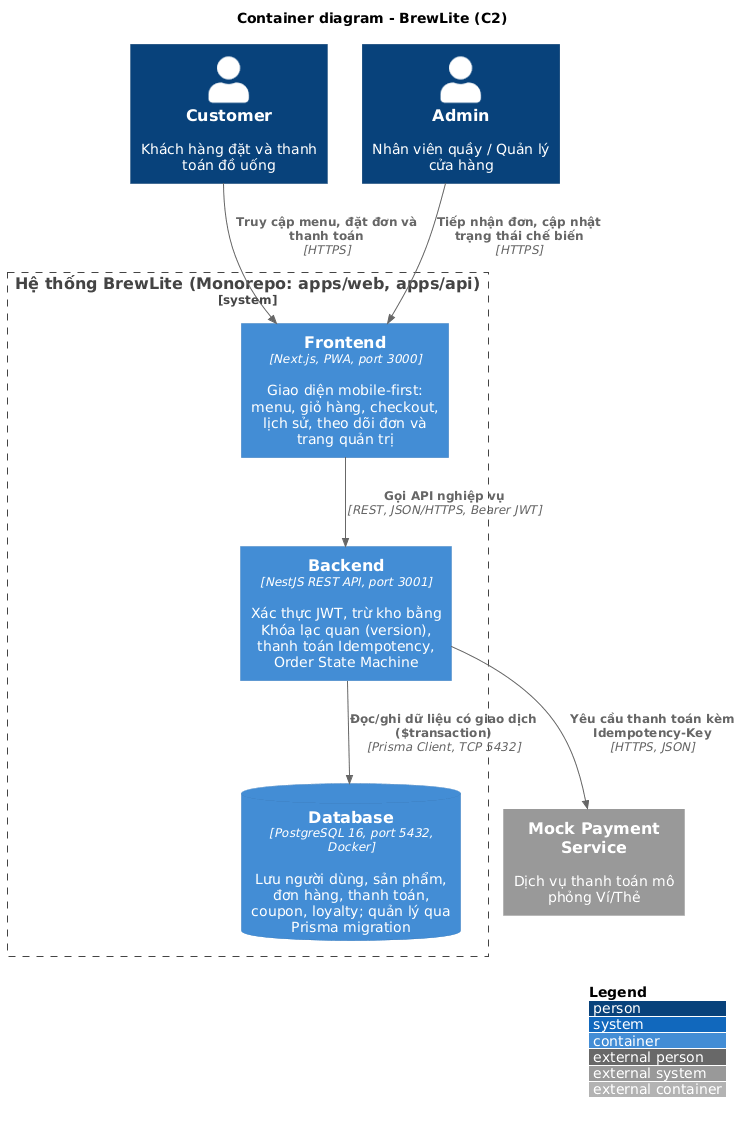
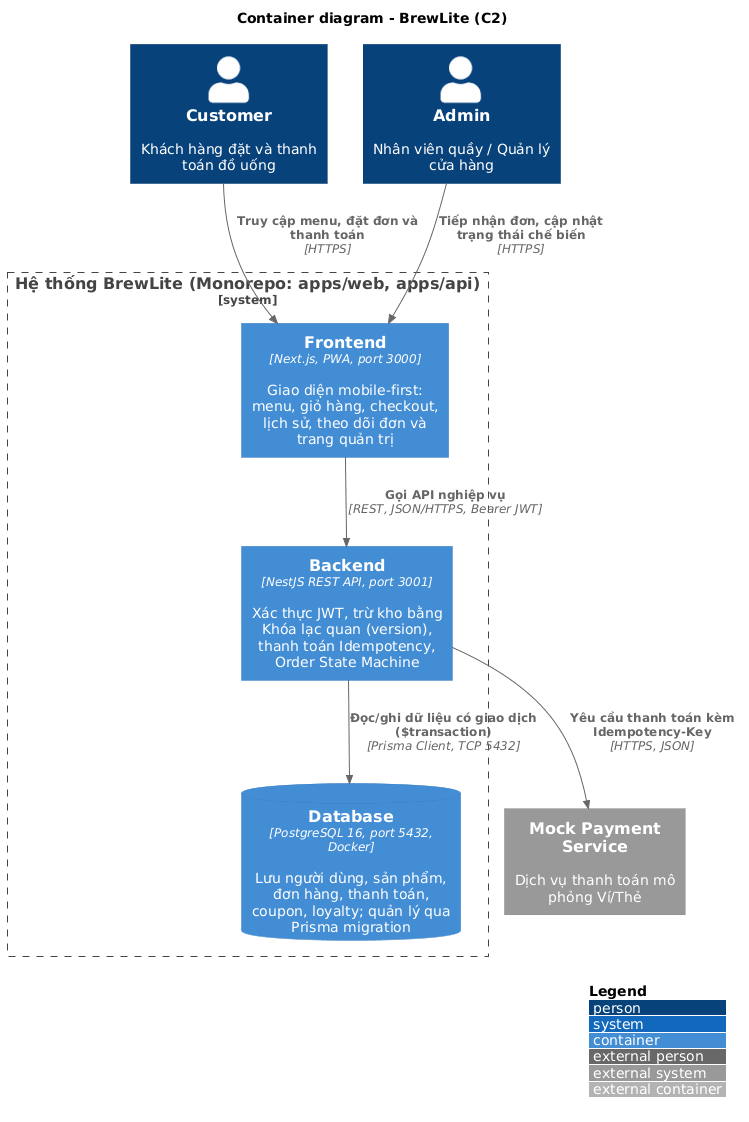
docs(architecture): relocate c4-model.md to architecture root and update C4 PNG diagrams

diff --git a/docs/architecture/c4-model.md b/docs/architecture/c4-model.md
@@ -41,9 +41,9 @@ Mở hộp BrewLite System thành các container chạy và triển khai đượ
 
 | Container | Công nghệ | Mã nguồn | Cổng | Vai trò |
 |---|---|---|---|---|
-| **Frontend** | Next.js (mobile-first, PWA) | `apps/web` | 3000 | Hiển thị giao diện menu, giỏ hàng, checkout, lịch sử và theo dõi đơn, màn hình Admin. Gọi Backend qua REST, không truy cập trực tiếp cơ sở dữ liệu. |
-| **Backend** | NestJS REST API | `apps/api` | 3001 | Xác thực và phân quyền JWT, validate dữ liệu, xử lý nghiệp vụ (tạo đơn, trừ tồn kho bằng Khóa lạc quan qua trường version, thanh toán có Idempotency, Order State Machine), health check `GET /health`. Là thành phần duy nhất truy cập cơ sở dữ liệu. |
-| **Database** | PostgreSQL 16 (Docker) | Migration và seed trong `apps/api` | 5432 | Lưu người dùng, sản phẩm, kích cỡ/topping, đơn hàng, thanh toán, mã giảm giá (Coupon), điểm tích lũy (Loyalty); schema quản lý qua Prisma migration. |
+| **Frontend** | Next.js (mobile-first, PWA) | `../../apps/web` | 3000 | Hiển thị giao diện menu, giỏ hàng, checkout, lịch sử và theo dõi đơn, màn hình Admin. Gọi Backend qua REST, không truy cập trực tiếp cơ sở dữ liệu. |
+| **Backend** | NestJS REST API | `../../apps/api` | 3001 | Xác thực và phân quyền JWT, validate dữ liệu, xử lý nghiệp vụ (tạo đơn, trừ tồn kho bằng Khóa lạc quan qua trường version, thanh toán có Idempotency, Order State Machine), health check `GET /health`. Là thành phần duy nhất truy cập cơ sở dữ liệu. |
+| **Database** | PostgreSQL 16 (Docker) | Migration và seed trong `../../apps/api` | 5432 | Lưu người dùng, sản phẩm, kích cỡ/topping, đơn hàng, thanh toán, mã giảm giá (Coupon), điểm tích lũy (Loyalty); schema quản lý qua Prisma migration. |
 
 ### 2.2 Giao thức giữa các khối
 
@@ -56,7 +56,7 @@ Mở hộp BrewLite System thành các container chạy và triển khai đượ
 
 Ghi chú:
 
-- Cổng 3000, 3001, 5432 là cổng khi chạy local bằng `docker-compose.yml`. Ở production, người dùng chỉ truy cập qua HTTPS (443) và cơ sở dữ liệu không mở ra Internet.
+- Cổng 3000, 3001, 5432 là cổng khi chạy local bằng `../../docker-compose.yml`. Ở production, người dùng chỉ truy cập qua HTTPS (443) và cơ sở dữ liệu không mở ra Internet.
 - Frontend gọi Backend từ cả phía server (SSR) lẫn trình duyệt, nên Backend cần bật CORS cho domain của Frontend và địa chỉ API lấy từ biến môi trường.
 
 ---
@@ -65,9 +65,9 @@ Ghi chú:
 
 | Thành phần | Mã nguồn | Liên quan |
 |---|---|---|
-| Frontend | `apps/web` | Ràng buộc C1, C15 trong `context-and-scope.md` |
-| Backend | `apps/api` | Ràng buộc C2, C14 |
-| Database | `apps/api` (migration, seed), `docker-compose.yml` | Ràng buộc C3, C4 |
+| Frontend | `../../apps/web` | Ràng buộc C1, C15 trong `context-and-scope.md` |
+| Backend | `../../apps/api` | Ràng buộc C2, C14 |
+| Database | `../../apps/api` (migration, seed), `docker-compose.yml` | Ràng buộc C3, C4 |
 | Mock Payment Service | Mô phỏng (sẽ có ADR riêng) | Stakeholder S6, giả định A7 |
 
 ---
